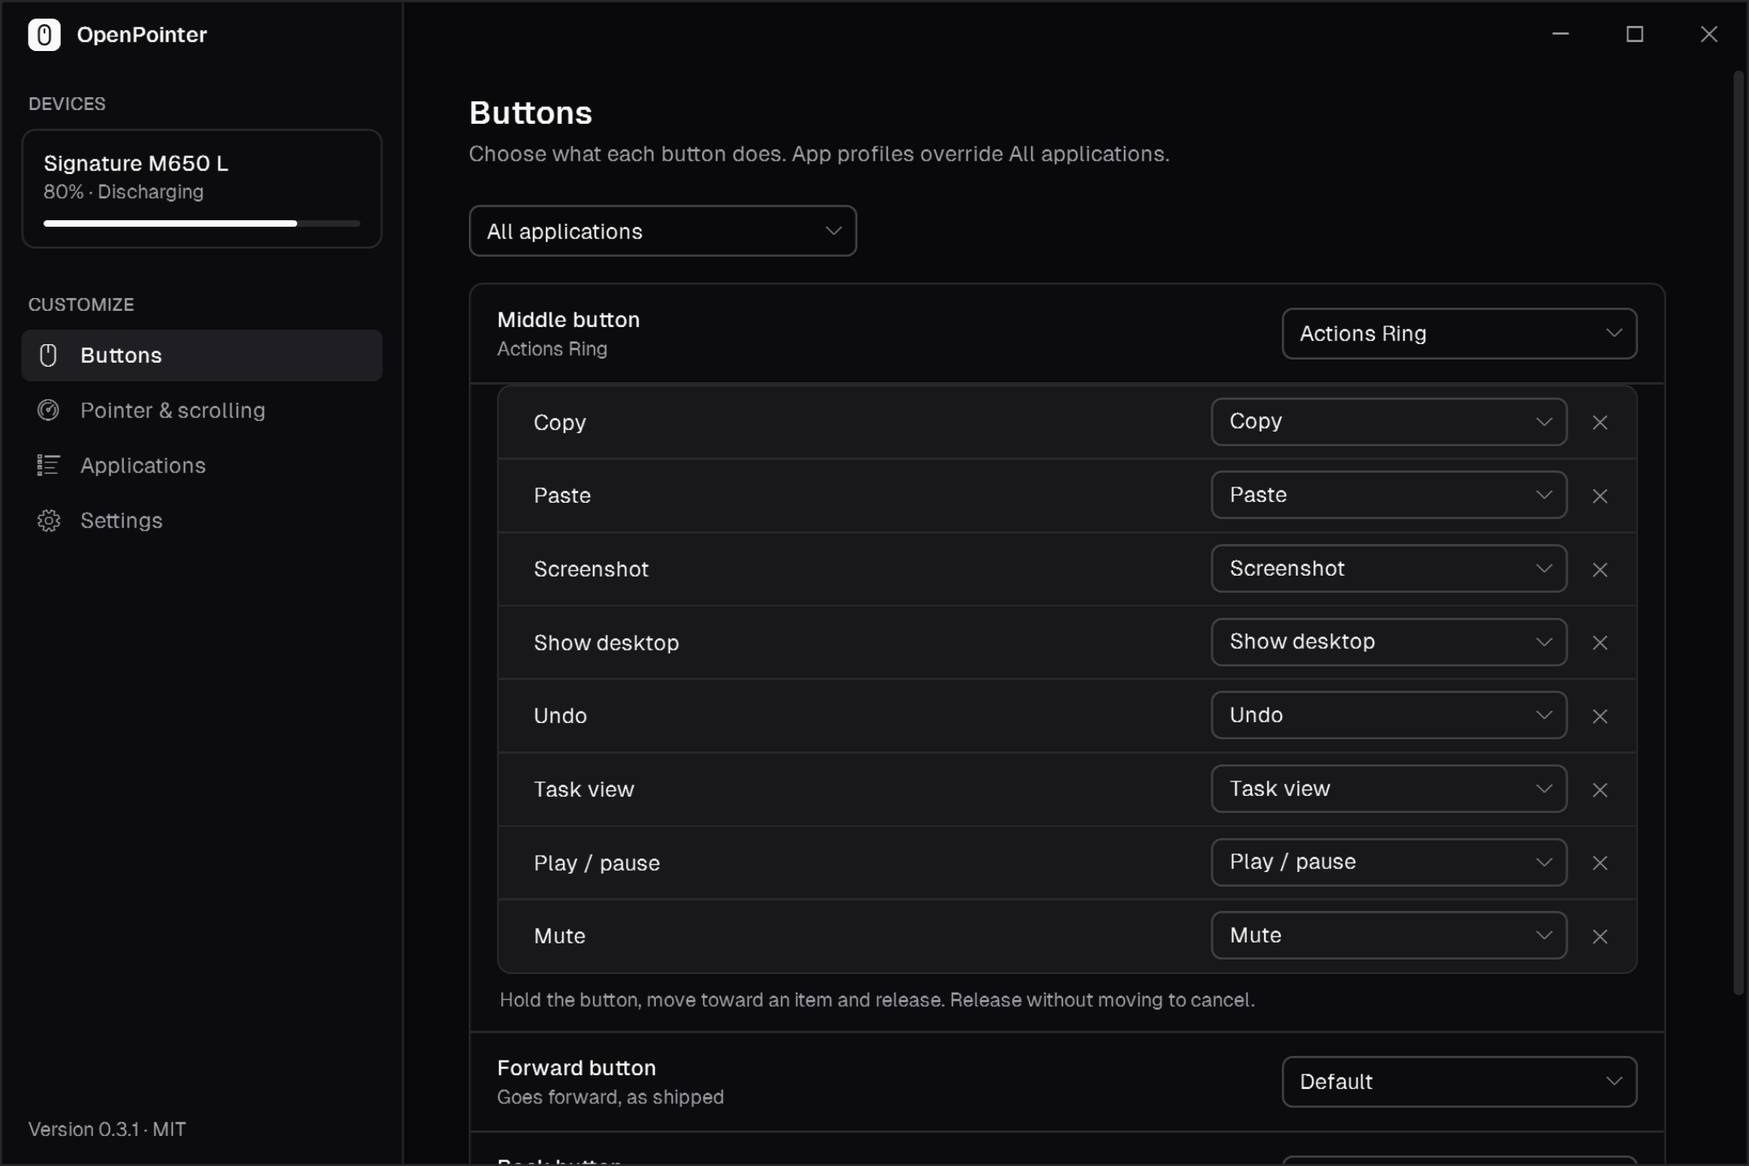
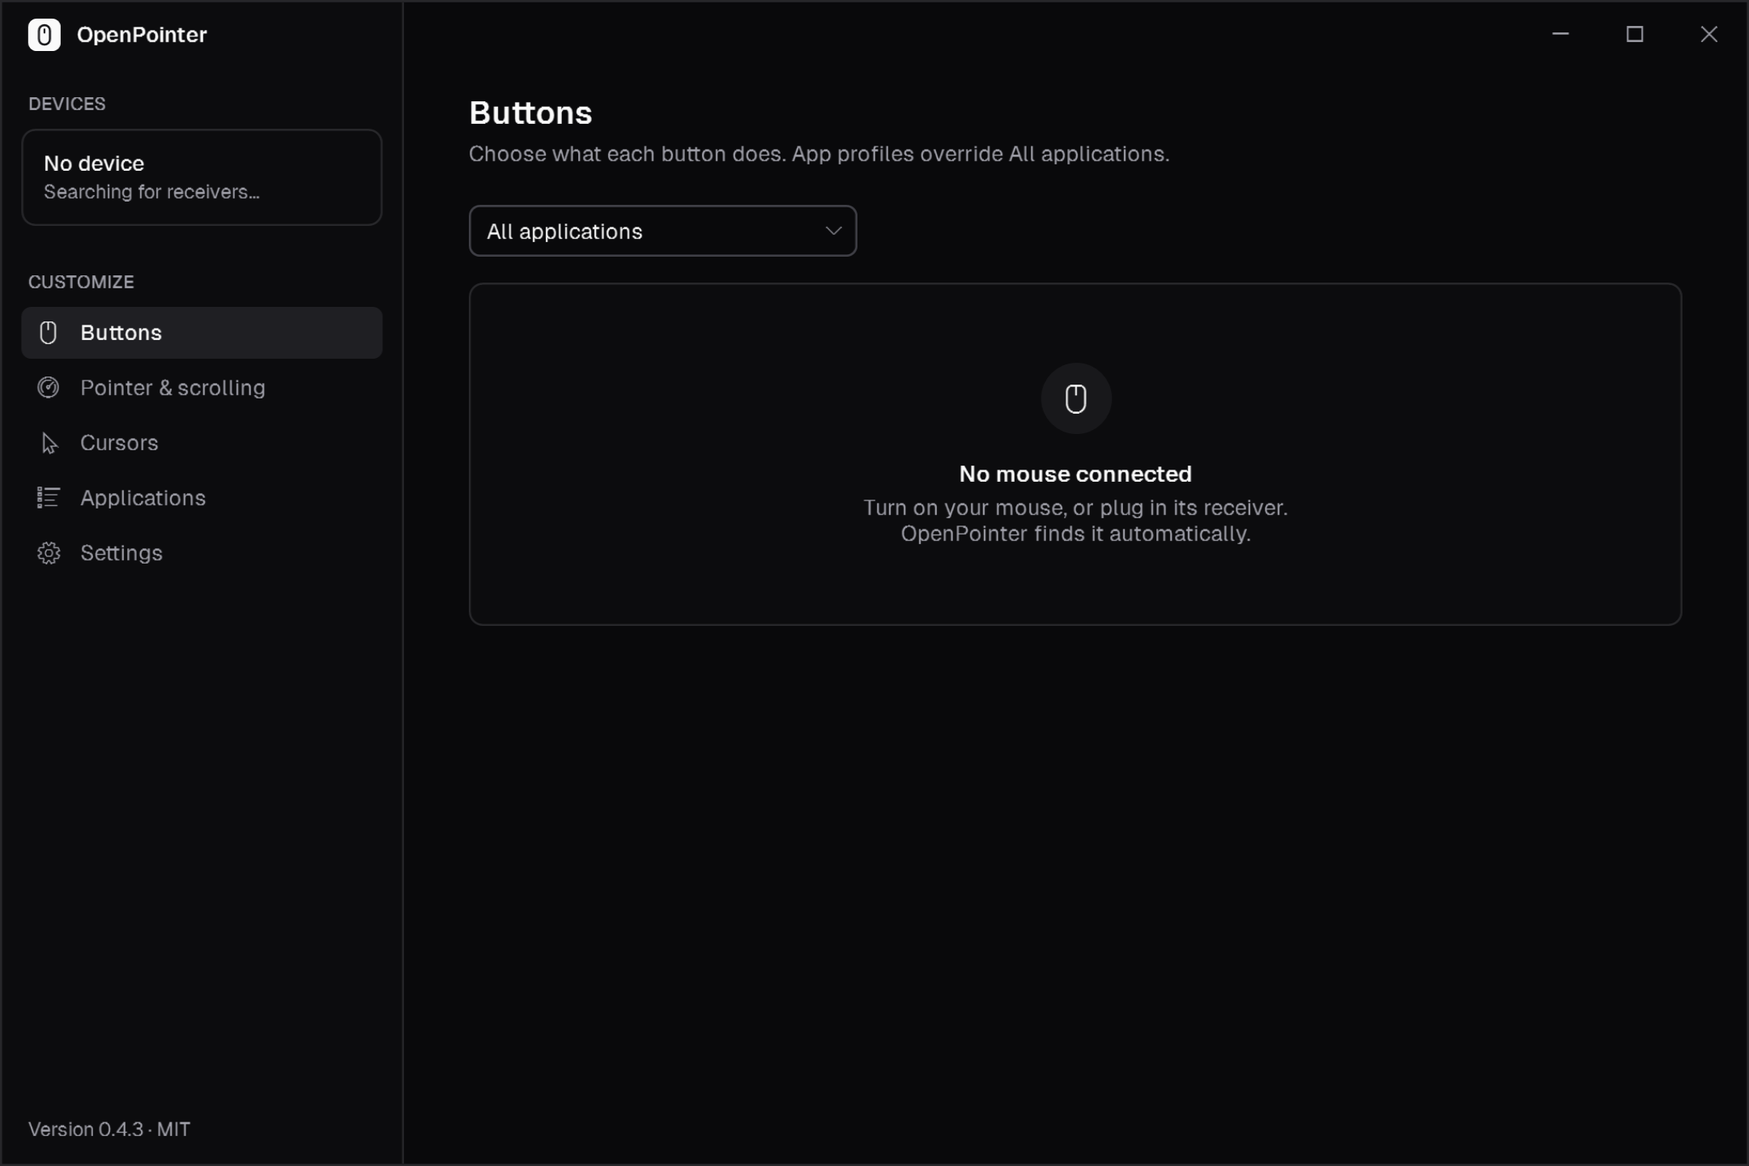
User-facing README, CONTRIBUTING.md and CLAUDE.md
README now explains what OpenPointer is, how to install and use it, and
answers common questions. Build, release, diagnostics and screenshot notes
move to CLAUDE.md; contributor guidance moves to CONTRIBUTING.md.
Screenshots refreshed to include the Cursors page.

diff --git a/README.md b/README.md
@@ -1,94 +1,116 @@
 # OpenPointer
 
-An open-source, customizable alternative to Logi Options+ for Windows. It talks to Logitech mice directly over HID++ 2.0, so there is no account, no cloud, and no telemetry.
+**Customize your Logitech mouse on Windows: free, open source, and without Logi Options+.**
 
-![Buttons: per-app remapping with an Actions Ring](docs/screenshots/buttons.png)
+Remap any button, per app. Add gestures and an Actions Ring, set pointer speed, change your cursor style, and see your battery level. No account, no cloud, no telemetry.
+
+![Remap buttons per app, with an Actions Ring](docs/screenshots/buttons.png)
 
 <table>
   <tr>
-    <td><img src="docs/screenshots/pointer.png" alt="Pointer speed and scrolling" /></td>
-    <td><img src="docs/screenshots/applications.png" alt="Per-app profiles" /></td>
+    <td><img src="docs/screenshots/cursors.png" alt="Cursor styles" /></td>
+    <td><img src="docs/screenshots/applications.png" alt="App profiles" /></td>
   </tr>
 </table>
 
-## Features
+## Download
 
-- **Per-app button profiles.** Chrome, File Explorer, the desktop, the taskbar, or any `.exe`. Switches instantly when focus changes.
-- **Actions:** keyboard shortcuts (held while the button is held), mouse buttons, scrolling, launch an app/file/URL, type text, macros, media keys, DPI set/cycle/precision-hold, wheel mode, Easy-Switch.
-- **Gestures:** hold a button and move — tap/up/down/left/right each run their own action.
-- **Actions Ring:** hold a button for a radial menu of up to 8 actions at the cursor; aim and release.
-- **Macros:** multi-step actions (shortcuts, typed text, launches, waits) with an editor.
-- **Pointer speed** with the device's real DPI range, presets, and per-app DPI.
-- **Scrolling:** scroll speed, smooth (high-resolution) scrolling, natural scrolling, SmartShift on/off and sensitivity, ratchet/free spin, thumb wheel remap and invert.
-- **Backup:** export and import all settings as one file.
-- **Cursor styles:** switch Windows between its default cursors and bundled packs (macOS, with or without shadow, three sizes). Your original cursors are backed up and restored on request or on uninstall. Packs are plain folders with a `pack.json`; see [adding a cursor pack](src/OpenPointer/Assets/Cursors/README.md).
-- **Battery** in the tray, the window, and a low-battery notification.
-- **Tray menu** to change the focused app's buttons, DPI and wheel mode on the fly.
-- **One JSON file** (`%APPDATA%\OpenPointer\config.json`), reloaded live when edited.
-- Fails safe: buttons are only remapped while OpenPointer runs; on exit, crash or sleep the mouse falls back to its built-in behavior.
+**[Download the latest installer](https://github.com/Manan-Santoki/openpointer/releases/latest)** (`OpenPointer-Setup-x.y.z.exe`) and run it.
 
-## Supported hardware
+- Windows 10 (1809) or newer, 64-bit.
+- No admin rights needed. It installs just for you.
+- Prefer not to install? Each release also has a portable zip.
 
-Any HID++ 2.0 mouse over a Bolt, Unifying or Lightspeed receiver, or Bluetooth. Features are discovered from the device, so options only appear when your mouse supports them. Verified on a Signature M650 L (Bolt).
+Windows may show a SmartScreen warning the first time, because the app isn't code-signed yet. Click **More info → Run anyway**.
 
-## Install
+## What you can do
 
-Download `OpenPointer-Setup-x.y.z.exe` from [Releases](https://github.com/Manan-Santoki/openpointer/releases/latest) and run it. It installs per user (no admin rights) and can start with Windows. A portable zip is also attached to every release.
+### Remap buttons
+Give any button a new job:
+- keyboard shortcuts
+- back/forward, middle click, scrolling
+- open an app, file or website
+- type text, media and volume keys
+- multi-step **macros**
 
-OpenPointer checks GitHub Releases for updates and installs them in one click from the tray or Settings. Downloads are verified against the release's `SHA256SUMS.txt`.
+Keys like Volume or the arrow keys **repeat while you hold** the button, just like a keyboard.
 
-The builds are not code-signed yet, so Windows SmartScreen may warn on first run ("More info" → "Run anyway").
+### Different buttons for different apps
+Make the side buttons go back/forward in Chrome, change the volume in Spotify, and open your favorite apps on the **desktop**. The desktop and the taskbar each get their own profile, separate from File Explorer. Profiles switch the moment you change windows.
 
-## Release
+### Gestures and the Actions Ring
+- **Gestures:** hold a button and move up, down, left or right, or just click. Each one runs its own action.
+- **Actions Ring:** hold a button and a circle of up to 8 actions appears around your pointer. Move toward one and let go.
 
-Add the version's entry to [CHANGELOG.md](CHANGELOG.md), then push a version tag. GitHub Actions takes the release notes from the changelog (and fails if the entry is missing), tests, builds the installer and portable zip, and publishes the release:
+### Pointer and scrolling
+- **Pointer speed (DPI)** with presets, and a different speed per app if you like.
+- **Scroll speed**, natural scrolling, and smooth scrolling (on mice whose wheel supports it).
+- **SmartShift** and ratchet or free-spin wheel modes on MX mice.
+- **Thumb wheel** actions and direction.
 
-```
-git tag v0.3.0
-git push origin v0.3.0
-```
+### Cursor styles
+Switch all of Windows between the standard cursors and a **macOS** style, with or without a shadow, in three sizes. Preview every pointer before applying. Your original cursors are saved, and you can restore them any time.
 
-Local installer build (Inno Setup 6.6+): `ISCC.exe /DAppVersion=0.3.0 installer\OpenPointer.iss` after publishing to `artifacts/publish`.
+### Battery and quick controls
+Battery level is shown in the tray and in the app, and you get a warning when it runs low. Right-click the tray icon to change the current app's buttons, the pointer speed or the wheel mode without opening the window.
 
-## Run from source
+## Getting started
 
-Requires the .NET 10 SDK.
+1. **Install and open OpenPointer.** It finds your mouse automatically.
+2. If **Logi Options+** is running, OpenPointer will offer to stop it. Both apps can't control the buttons at the same time. Options+ stays installed.
+3. Open **Buttons**, pick a button and choose an action. Click **Save** to apply.
+4. To customize a specific app, open **Applications → Add application**, or use the menu at the top of the Buttons page.
+5. For quick changes, right-click the **tray icon** while any app is in front and pick a button.
 
-```
-dotnet run --project src/OpenPointer
-```
+OpenPointer keeps running in the tray. Close the window and it stays there; choose **Quit** from the tray menu to exit.
 
-Logi Options+ competes for the same buttons. OpenPointer detects it and offers to stop it (it stays installed).
+## Supported mice
 
-Command-line flags: `--background` (start in the tray), `--quit` (close a running instance).
+Logitech mice that use the HID++ 2.0 protocol, connected through a **Logi Bolt**, **Unifying** or **Lightspeed** receiver, or **Bluetooth**. That should include most Logitech mice from roughly 2015 onward, such as the MX Master and MX Anywhere series, the Signature series, the M720 and the M585/M590.
 
-## Screenshots
+OpenPointer reads what your mouse supports and only shows the options it actually has.
 
-Regenerate the images above (renders the window to PNG without touching the mouse):
+**Tested on:** Signature M650 L. If your mouse works (or doesn't), please [say so in an issue](https://github.com/Manan-Santoki/openpointer/issues).
 
-```
-dotnet run --project src/OpenPointer -- --capture-docs docs/screenshots
-```
+## Updates
 
-## Diagnostics
+OpenPointer checks for new versions automatically. When one is available you'll see a notification, plus **Install update** in the tray menu and in Settings. Updates are verified before they install, and the app restarts by itself. See the [changelog](CHANGELOG.md) for what changed in each version.
 
-```
-dotnet run --project src/OpenPointer.Cli -- dump              # features, controls, DPI, battery
-dotnet run --project src/OpenPointer.Cli -- listen            # divert controls and print raw events
-OPENPOINTER_TRACE=1 dotnet run --project src/OpenPointer.Cli  # log every HID++ report
-```
+## FAQ
 
-## Layout
+**My buttons stopped doing what I set.**
+Make sure Logi Options+ isn't running: OpenPointer shows a warning if it is. Also check that remapping isn't paused (tray menu → Pause remapping).
 
-| Path | Contents |
-|---|---|
-| `src/OpenPointer.Core/Hidpp` | HID++ transport, feature access, mouse features |
-| `src/OpenPointer.Core/Engine` | Device lifecycle, per-app diversion, action execution |
-| `src/OpenPointer.Core/Config` | Config model, profiles, actions, key chords |
-| `src/OpenPointer` | WPF tray app and settings window |
-| `src/OpenPointer.Cli` | Protocol diagnostics |
-| `tests/OpenPointer.Tests` | Unit tests |
+**It doesn't work in some windows.**
+Windows doesn't let normal apps send input to apps running as administrator (Task Manager, installers and so on). Remapped buttons won't act on those windows.
+
+**What happens if I quit OpenPointer?**
+Your mouse goes back to its normal behavior right away. Remapping only happens while OpenPointer runs.
+
+**Where are my settings?**
+In `%APPDATA%\OpenPointer\config.json`. You can back them up or move them to another PC with **Settings → Backup → Export / Import**.
+
+**How do I uninstall?**
+Use **Settings → Apps** in Windows. Uninstalling also puts back your original cursors if you changed them.
+
+**Do I still need Logi Options+?**
+No, but keep it (or Logitech's Logi Bolt app) if you need to pair a new device to a receiver or update your mouse's firmware. OpenPointer doesn't do those.
+
+## Privacy
+
+OpenPointer works entirely on your PC. It has no account, no analytics and no telemetry. The only network request is the update check, which asks GitHub for the latest release.
+
+## Help and feedback
+
+Found a bug or have an idea? [Open an issue](https://github.com/Manan-Santoki/openpointer/issues). For bugs, attaching your log helps a lot: **Settings → Log → Open log**.
+
+Want to help build it? See [CONTRIBUTING.md](CONTRIBUTING.md).
 
 ## License
 
-MIT. Geist fonts under the SIL Open Font License. macOS cursors by [antiden](https://github.com/antiden/macOS-cursors-for-Windows) under MIT. Not affiliated with Logitech; Logitech, Logi, MX Master and Options+ are trademarks of Logitech.
+OpenPointer is free software under the [MIT license](LICENSE).
+
+- macOS cursors by [antiden](https://github.com/antiden/macOS-cursors-for-Windows), MIT.
+- Geist font by Vercel, SIL Open Font License.
+
+Not affiliated with or endorsed by Logitech. Logitech, Logi, MX Master and Options+ are trademarks of Logitech.

diff --git a/CLAUDE.md b/CLAUDE.md
@@ -1,0 +1,92 @@
+# OpenPointer: notes for agents and maintainers
+
+Open-source Logi Options+ alternative for Windows. A WPF tray app talks to Logitech mice over HID++ 2.0 (HidSharp). User docs are in README.md; contributor docs are in CONTRIBUTING.md. This file covers how to build, verify and ship.
+
+## Build, run, test
+
+```
+dotnet test tests/OpenPointer.Tests          # unit tests (must pass before any commit)
+dotnet build src/OpenPointer                 # app (Debug)
+dotnet run --project src/OpenPointer         # run from source
+```
+
+- Single instance (mutex `OpenPointer.Singleton`). A second launch only signals the running one to show its window.
+- Quit an installed instance with `"%LOCALAPPDATA%\Programs\OpenPointer\OpenPointer.exe" --quit` before running a dev build.
+- Flags:
+  - `--background`: start in the tray.
+  - `--quit`: ask the running instance to exit; exits immediately if none is running.
+  - `--restore-cursors`: used by the uninstaller.
+  - `--capture-docs <dir>`: render pages to PNG.
+
+## Verifying changes
+
+- **Protocol:** `dotnet run --project src/OpenPointer.Cli -- dump` (read-only) and `-- listen` (remaps controls, prints events). `OPENPOINTER_TRACE=1` logs raw reports.
+- **UI:** `OpenPointer.exe --capture-docs <dir>` renders every page plus a sample dialog to 2× PNGs.
+  - It runs a *passive* DeviceManager that never remaps controls, so it's safe next to a running instance.
+  - Use `OPENPOINTER_CAPTURE_HEIGHT=1500` for tall pages.
+  - Prefer this to screenshotting the live window: the user may be using it, and UI Automation leaves focus rings.
+- **Runtime log:** `%APPDATA%\OpenPointer\openpointer.log` records every button press (focused app → profile → action) and every remapping change.
+
+## README screenshots
+
+Regenerate them with:
+
+```
+src/OpenPointer/bin/Debug/net10.0-windows/OpenPointer.exe --capture-docs docs/screenshots
+```
+
+Then delete `settings.png` (it shows the local username in the config path) and `dialog-pointers.png`. The README uses `buttons.png`, `cursors.png` and `applications.png`.
+
+## Releasing
+
+1. Bump `<Version>` in `src/OpenPointer/OpenPointer.csproj`.
+2. Add a `## [x.y.z] - YYYY-MM-DD` section to `CHANGELOG.md` (Keep a Changelog: Added / Changed / Fixed, written for users) and update the compare links at the bottom.
+3. Commit, then `git tag vX.Y.Z && git push && git push origin vX.Y.Z`.
+4. `.github/workflows/release.yml` then:
+   - takes the notes from the changelog via `.github/scripts/release-notes.ps1`, and **fails if the entry is missing**
+   - runs the tests and publishes a single-file self-contained build
+   - builds the Inno Setup installer and a portable zip, and writes `SHA256SUMS.txt`
+   - creates the GitHub release
+
+The in-app updater only accepts releases that include `OpenPointer-Setup-*.exe` and `SHA256SUMS.txt`, and skips drafts and prereleases.
+
+### Local installer build and install test
+
+```
+dotnet publish src/OpenPointer -c Release -r win-x64 --self-contained true -p:PublishSingleFile=true -p:IncludeNativeLibrariesForSelfExtract=true -p:DebugType=none -p:Version=X.Y.Z -o artifacts/publish
+ISCC.exe /Q /DAppVersion=X.Y.Z installer\OpenPointer.iss
+artifacts\OpenPointer-Setup-X.Y.Z.exe /VERYSILENT /SUPPRESSMSGBOXES /NORESTART
+```
+
+Inno Setup 6.6+ is required (`WizardStyle=modern dynamic`); locally it's from scoop `extras/inno-setup`. A silent install quits the running app gracefully (`PrepareToInstall` → `--quit`) and relaunches it with `--background`. Don't use PowerShell `Start-Process -Wait` on the installer: it also waits for the relaunched app and hangs.
+
+## Architecture notes
+
+- **Remapping is temporary.** Controls are remapped with HID++ "temporary diversion", which the device forgets on power cycle or reconnect, so OpenPointer fails safe. `DeviceManager` re-applies on reconnect (receiver 0x41 notifications) and hands controls back on exit.
+- **Remapping follows focus.** Only controls whose action in the focused app's profile isn't `native` are remapped, so native means truly untouched. Gestures and the Actions Ring also request raw XY movement.
+- **Desktop is its own context.** `@desktop` means window class `Progman`/`WorkerW` and `@taskbar` means `Shell_TrayWnd`. Both are separate from `explorer.exe` (File Explorer windows).
+- **Save vs instant:**
+  - Button and profile edits in the window go through `Draft` and the floating Save bar.
+  - Device settings (DPI, scrolling), general settings and cursors apply immediately.
+  - The tray menu writes to the config directly ("on the fly").
+- **Config:** `%APPDATA%\OpenPointer\config.json`, reloaded live by `ConfigStore`. Actions are polymorphic records with a `type` discriminator. Computed properties need `[JsonIgnore]`.
+- **Cursors:**
+  - Packs live in `src/OpenPointer/Assets/Cursors/<id>/pack.json`, shipped as loose files next to the exe (`ExcludeFromSingleFile`).
+  - Applying copies the files to `%LOCALAPPDATA%\OpenPointer\Cursors\<variant>`, writes `HKCU\Control Panel\Cursors` and calls `SPI_SETCURSORS`.
+  - The original scheme is backed up once to `cursor-backup.json`.
+- **Dialogs:**
+  - `DialogHost` is an in-window overlay card, not a separate window. `ShowFor` pumps a nested `DispatcherFrame`, so callers stay synchronous.
+  - It closes via ×, Esc, or a click on the backdrop.
+
+## UI conventions
+
+- Monochrome zinc palette, in the shadcn style. Tokens live in `Themes/Dark.xaml` and `Themes/Light.xaml`, styles in `Themes/Controls.xaml` and `Themes/Picker.xaml`.
+- Never hard-code colors. Never give a style the same key as a brush (a `Card` style vs `CardBackground` brush collision broke rendering once).
+- Geist is bundled for text. Icons come from Segoe MDL2 Assets, because the user's Windows 10 has no Segoe Fluent Icons.
+- Pages are code-built `IPage` classes that re-render on config, device and theme changes. Use the `Ui.*` helpers (Row, Card, Section, Switch, MenuItem) so code-built UI matches the XAML styles.
+
+## Git
+
+- Commit and push only when asked.
+- No attribution trailers in commit messages.
+- Author: Manan Santoki.

diff --git a/CONTRIBUTING.md b/CONTRIBUTING.md
@@ -1,0 +1,91 @@
+# Contributing to OpenPointer
+
+Thanks for helping! Bug reports, device reports, cursor packs and code are all welcome.
+
+## Reporting bugs
+
+[Open an issue](https://github.com/Manan-Santoki/openpointer/issues) and include:
+
+- your mouse model and how it connects (Bolt, Unifying or Lightspeed receiver, or Bluetooth)
+- your OpenPointer version (Settings → Updates) and Windows version
+- what you did, what you expected, and what happened
+- your log: **Settings → Log → Open log**, or `%APPDATA%\OpenPointer\openpointer.log`
+
+**Device reports are especially useful.** Tell us which mouse you tried and whether buttons, DPI, SmartShift, thumb wheel and battery work. The output of the diagnostics tool helps even more (see below).
+
+## Development setup
+
+You need:
+- Windows 10 or 11, x64
+- the [.NET 10 SDK](https://dotnet.microsoft.com/download)
+- a Logitech HID++ 2.0 mouse, to test against real hardware
+
+```
+git clone https://github.com/Manan-Santoki/openpointer.git
+cd openpointer
+dotnet test tests/OpenPointer.Tests
+dotnet run --project src/OpenPointer
+```
+
+Only one instance runs at a time. Quit an installed copy first (tray → Quit, or `OpenPointer.exe --quit`), or it will just bring that copy's window forward. Stop Logi Options+ too, since it competes for the same buttons.
+
+### Diagnostics tool
+
+```
+dotnet run --project src/OpenPointer.Cli -- dump      # identity, features, controls, DPI, battery
+dotnet run --project src/OpenPointer.Cli -- listen    # remap controls and print their raw events
+```
+
+Set `OPENPOINTER_TRACE=1` to log every HID++ report.
+
+## Project layout
+
+| Path | What lives there |
+|---|---|
+| `src/OpenPointer.Core/Hidpp` | HID++ transport, feature access, mouse features (buttons, DPI, SmartShift, wheels, battery, Easy-Switch) |
+| `src/OpenPointer.Core/Engine` | Device lifecycle and reconnects, per-app button remapping, action execution |
+| `src/OpenPointer.Core/Config` | Settings model, profiles, actions, key chords, action catalog |
+| `src/OpenPointer.Core/Platform` | Windows integration: input, focus tracking, cursors, autostart, Options+ detection |
+| `src/OpenPointer.Core/Updates` | GitHub Releases update check and verified download |
+| `src/OpenPointer` | WPF tray app and settings window |
+| `src/OpenPointer.Cli` | Protocol diagnostics |
+| `tests/OpenPointer.Tests` | Unit tests |
+| `installer` | Inno Setup script |
+
+## Making changes
+
+- **Keep pull requests focused:** one feature or fix per PR.
+- **Add or update tests** for logic in `OpenPointer.Core` (config, profile resolution, protocol parsing, actions).
+- **Match the surrounding code.** Follow the existing naming, comment density and idioms. Comments explain *why*, not *what*.
+- **UI changes:** keep the monochrome, shadcn-style look. Use the theme tokens in `Themes/` (no hard-coded colors) and check both light and dark mode. Include before/after screenshots in the PR. `OpenPointer.exe --capture-docs <folder>` renders every page to PNG.
+- **Don't break fail-safe behavior.** Buttons must go back to normal when OpenPointer exits, crashes or the mouse reconnects.
+- **Add a changelog entry** under `## [Unreleased]` in [CHANGELOG.md](CHANGELOG.md) for anything users will notice.
+
+Before opening a PR, run:
+
+```
+dotnet test tests/OpenPointer.Tests
+dotnet build src/OpenPointer -c Release
+```
+
+CI runs the same checks on every push and pull request.
+
+## Adding a cursor pack
+
+Cursor packs are folders under `src/OpenPointer/Assets/Cursors/`, each with its cursor files, its license and a `pack.json`. See [the cursor pack guide](src/OpenPointer/Assets/Cursors/README.md).
+
+- **Only submit packs whose license allows redistribution.**
+- Keep the author, source link and license accurate, because the app shows them as credits.
+- The tests check that every file referenced in `pack.json` exists.
+
+## Supporting a new device or feature
+
+Most HID++ 2.0 mice work without changes, because features are discovered from the device. If yours needs something new:
+
+1. Run `openpointer-cli dump` and include the output in the issue or PR.
+2. Add the feature in `Hidpp/MouseDevice.cs`, and show it in the UI only when the device reports it.
+3. Write the protocol code from public documentation. Don't copy GPL-licensed code into this MIT project.
+
+## License
+
+By contributing, you agree that your contributions are licensed under the [MIT license](LICENSE).
